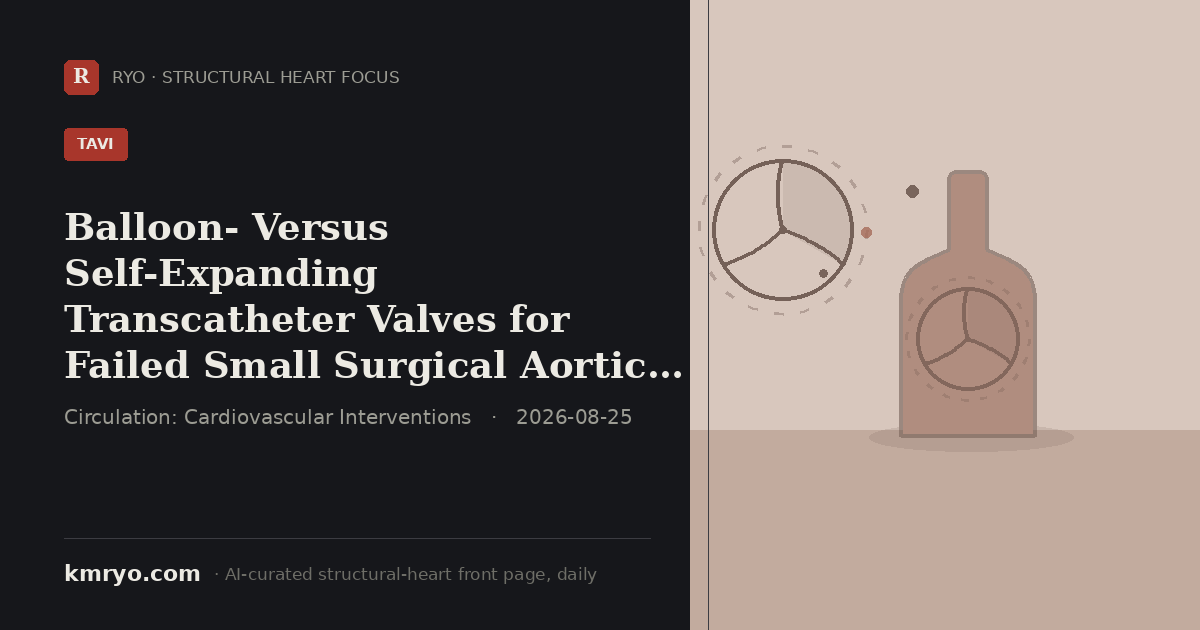
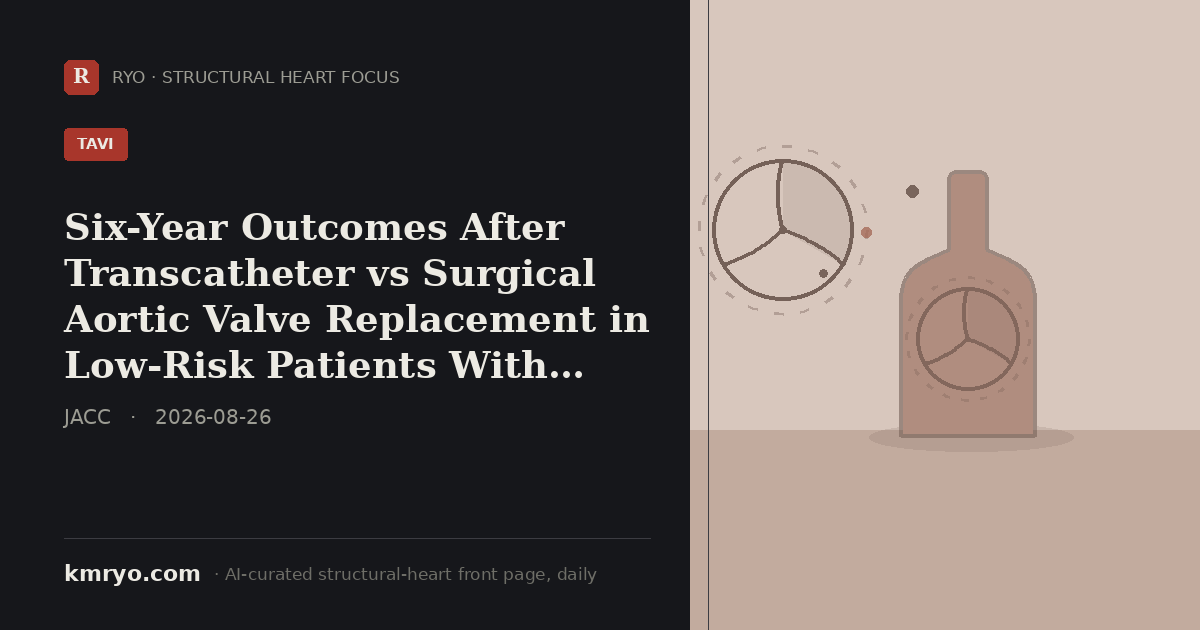
pulse: 2026-08-26 daily update

Changed region(s): [[0.0308, 0.3317, 0.555, 0.6937], [0.4317, 0.6333, 0.5242, 0.6937]]

diff --git a/index.html b/index.html
@@ -6,8 +6,8 @@
 <title>Structural Heart Focus — Daily | Dr. Mi Chen · 千觅量子 RYO</title>
 <meta name="description" content="Structural Heart Focus — the day's most important structural-heart reading (top journals, major meetings and the field's conversation), curated daily by an AI agent from inside the Zurich hybrid room. By Dr. Mi Chen · 千觅量子 RYO.">
 <!-- Social share card. Regenerated daily by the pulse agent (pulse/make_share_card.py); og:title/description updated to the day's top story so LinkedIn/WeChat/X show today's headline, not a static portrait. -->
-<meta property="og:title" content="Balloon- Versus Self-Expanding Transcatheter Valves for Failed Small Surgical Aortic Bioprostheses: 3-Year Results of the LYTEN Trial">
-<meta property="og:description" content="The randomized LYTEN trial's 3-year data show self-expanding valves hold a clear hemodynamic edge over balloon-expandable valves in valve-in-valve TAVR for small failed surgical aortic valves.">
+<meta property="og:title" content="Six-Year Outcomes After Transcatheter vs Surgical Aortic Valve Replacement in Low-Risk Patients With Aortic Stenosis">
+<meta property="og:description" content="Evolut Low Risk trial 6-year data: TAVR matches surgery on death/stroke, but reintervention climbs to 9.8% vs 6.0% by 7 years, driven mainly by valve regurgitation.">
 <meta property="og:image" content="https://www.kmryo.com/pulse/img/share/card.png">
 <meta property="og:image:width" content="1200">
 <meta property="og:image:height" content="630">
@@ -16,8 +16,8 @@
 <meta property="og:type" content="website">
 <meta property="og:site_name" content="kmryo.com · Structural Heart Focus">
 <meta name="twitter:card" content="summary_large_image">
-<meta name="twitter:title" content="Balloon- Versus Self-Expanding Transcatheter Valves for Failed Small Surgical Aortic Bioprostheses: 3-Year Results of the LYTEN Trial">
-<meta name="twitter:description" content="The randomized LYTEN trial's 3-year data show self-expanding valves hold a clear hemodynamic edge over balloon-expandable valves in valve-in-valve TAVR for small failed surgical aortic valves.">
+<meta name="twitter:title" content="Six-Year Outcomes After Transcatheter vs Surgical Aortic Valve Replacement in Low-Risk Patients With Aortic Stenosis">
+<meta name="twitter:description" content="Evolut Low Risk trial 6-year data: TAVR matches surgery on death/stroke, but reintervention climbs to 9.8% vs 6.0% by 7 years, driven mainly by valve regurgitation.">
 <meta name="twitter:image" content="https://www.kmryo.com/pulse/img/share/card.png">
[1 lines of base64/hex data omitted]
 <link rel="preconnect" href="https://fonts.googleapis.com">
